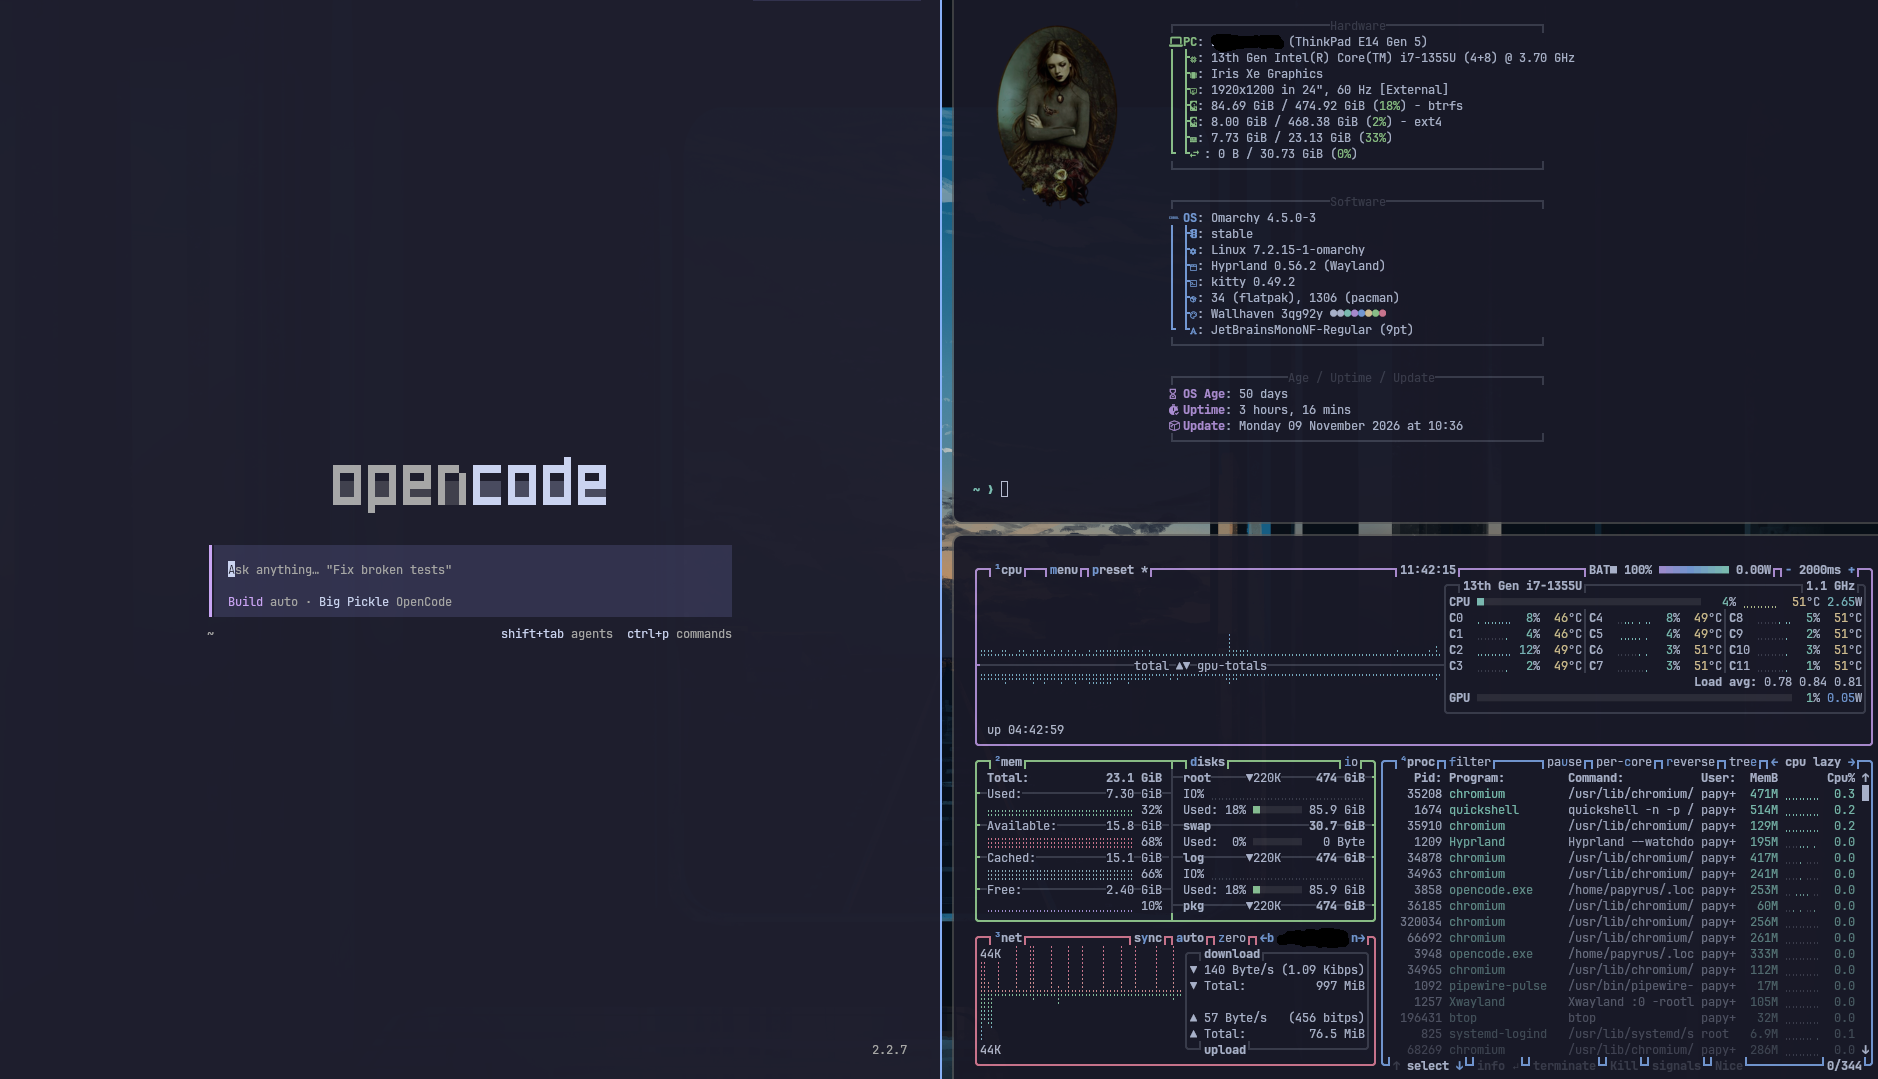
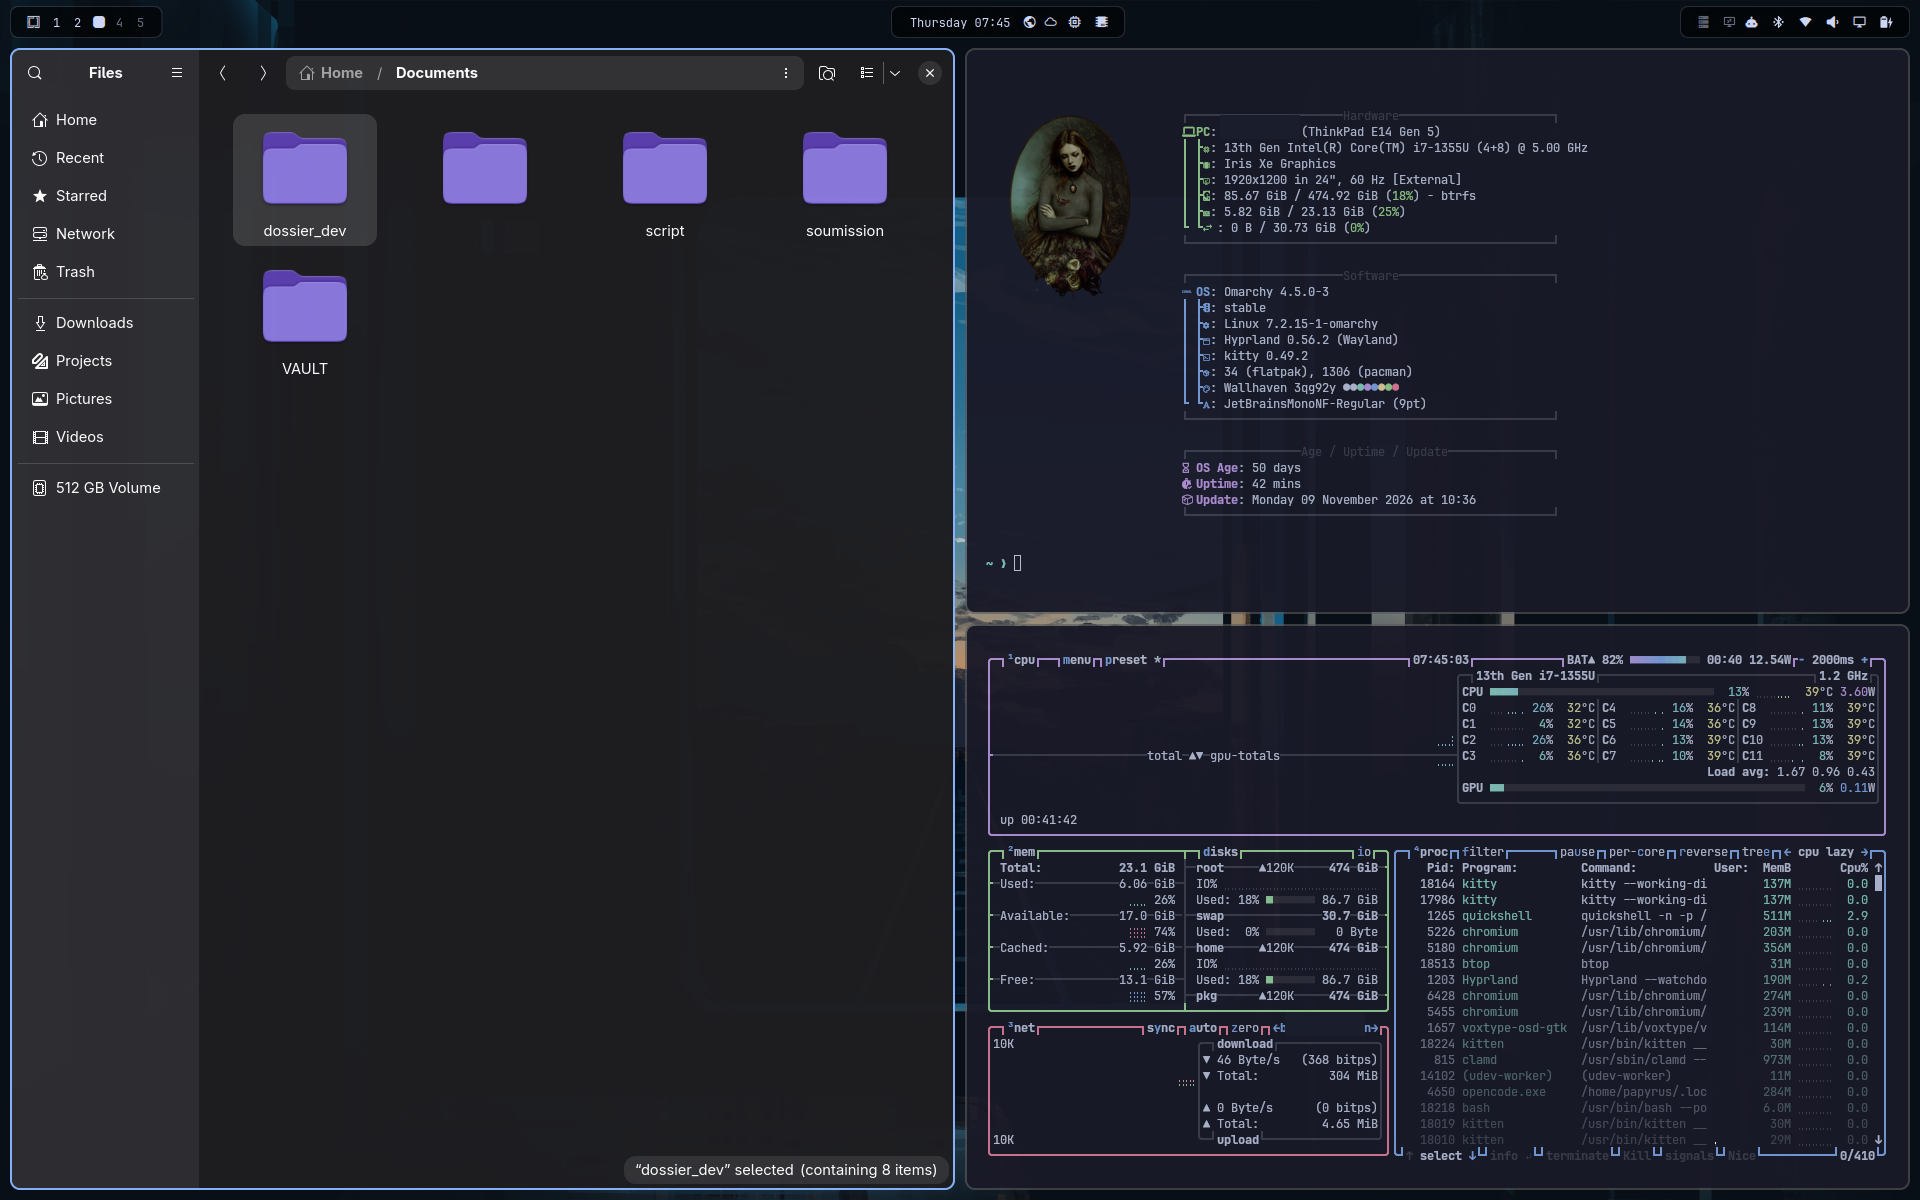
Capture mise à jour, deux fonds d'écran ajoutés, aperçu en premier

diff --git a/README.md b/README.md
@@ -2,9 +2,9 @@
 
 Un thème complet pour [Omarchy](https://omarchy.org/) 
 
-![Aperçu](theme/preview.jpg)
-
 ![Capture d'écran](theme/papyrus_theme.png)
+
+![Aperçu](theme/preview.jpg)
 
 ## Installation en une ligne
 
@@ -30,7 +30,7 @@ et recharge Hyprland.
 | Élément | Emplacement | Détail |
 |---|---|---|
 | Couleurs | `~/.config/omarchy/themes/papyrus-islands/colors.toml` | Palette Catppuccin Mocha, accent bleu `#89b4fa` |
-| Fond d'écran | `…/papyrus-islands/backgrounds/` | Wallhaven `3qg92y` |
+| Fond d'écran | `…/papyrus-islands/backgrounds/` | Wallhaven `3qg92y` + 2 variantes (`wallpaper-2`, `wallpaper-3`) |
 | Arrondis | `…/papyrus-islands/hyprland.lua` + bloc géré dans `~/.config/hypr/looknfeel.lua` | Arrondi 8 px, fenêtres inactives atténuées (0,15) |
 | Console | `~/.config/fastfetch/config.jsonc` + `cli.png` | Le fastfetch complet (hardware, software, uptime) |
 | Barre | `~/.config/omarchy/shell.json` | Barre `lobo.islands`, îlots noirs translucides, horloge centrée |
